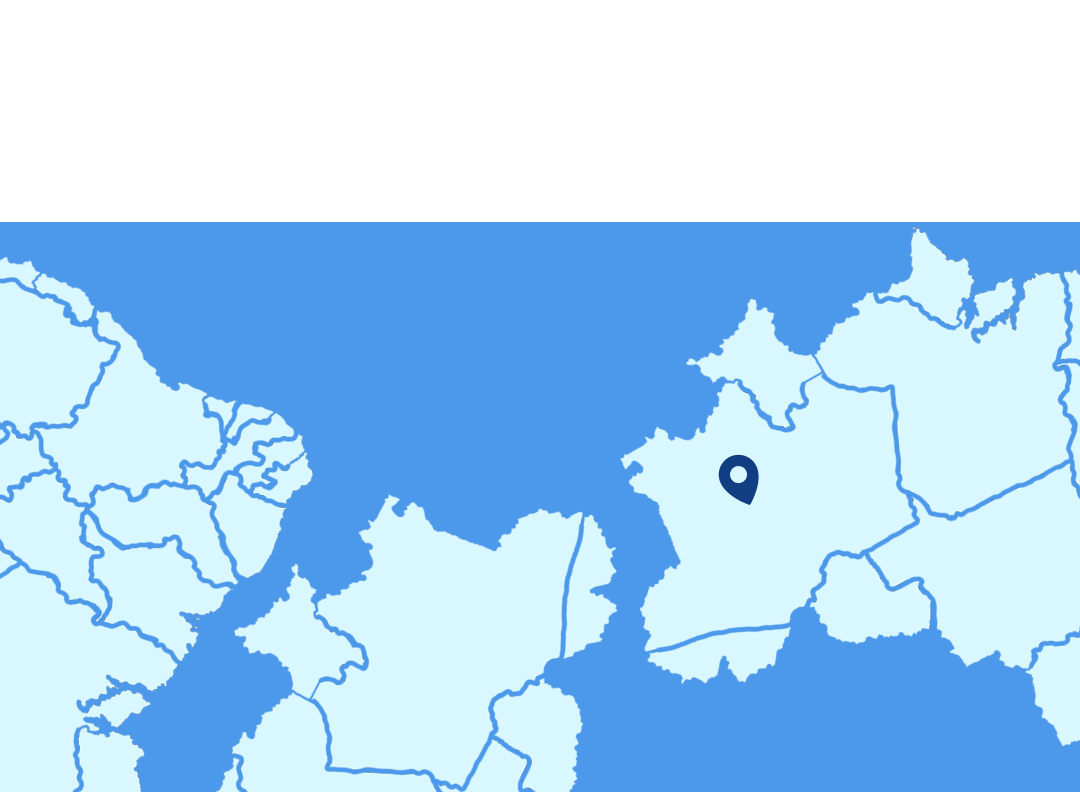
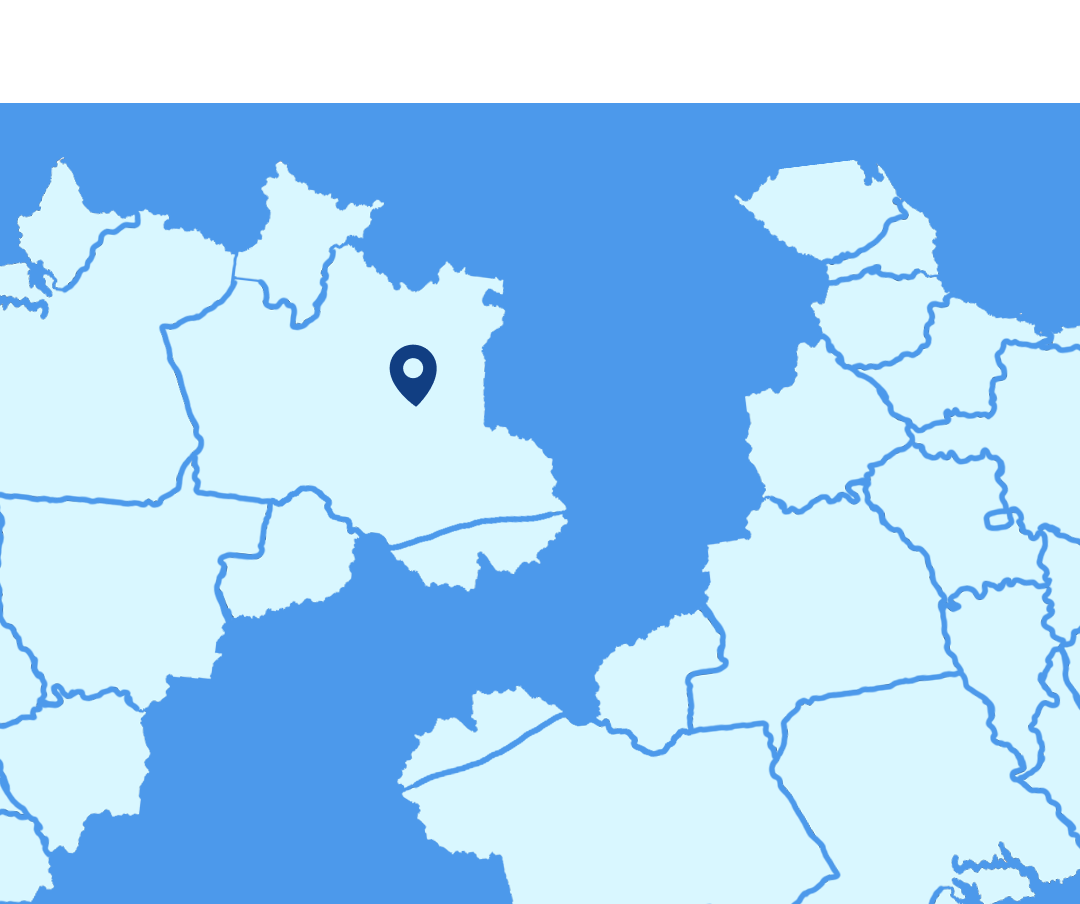
:recycle: refactor: Refatorando a estrutura da tela Login

diff --git a/ServSegFacilities/src/app/login/index.tsx b/ServSegFacilities/src/app/login/index.tsx
@@ -8,9 +8,14 @@ import { useAuth } from "../../contexts/AuthContext";
 import { useRouter } from "expo-router";
 import { useAuthLocal } from "../../hooks/useAuthLocal";
 
-const BACKGROUND_IMAGES = [
+// 1. Imagem fixa de fundo
+const BASE_BACKGROUND = require('../../../assets/imgs/FundoMapas.png');
+
+// 2. Apenas os mapas que vão alternar no carrossel
+const MAP_IMAGES = [
     require('../../../assets/imgs/Mapa1.png'),
     require('../../../assets/imgs/Mapa2.png'),
+    require('../../../assets/imgs/Mapa3.png'),
 ];
 
 export default function Login() {
@@ -46,10 +51,8 @@ export default function Login() {
         }
 
         try {
-            //? 1. Tenta realizar o login no contexto (Mock ou API)
             await login({ email: emailDigitado, senha: senhaDigitada });
 
-            //? 2. Proteção para o fluxo de biometria
             let devePerguntarBiometria = false;
             try {
                 if (verificarPrimeiroLogin) {
@@ -76,7 +79,7 @@ export default function Login() {
                             text: "Sim",
                             onPress: async () => {
                                 if (salvarDados) await salvarDados(emailDigitado, senhaDigitada);
-                                setBioAtiva(true); //* ⬅ Atualiza o estado caso o usuário permita.
+                                setBioAtiva(true);
                                 router.replace("/listaRegistro");
                             }
                         }
@@ -102,6 +105,7 @@ export default function Login() {
         }
     }
 
+    // Loop do carrossel alterado para usar MAP_IMAGES
     useEffect(() => {
         const interval = setInterval(() => {
             Animated.timing(fadeAnim, {
@@ -109,7 +113,7 @@ export default function Login() {
                 duration: 250,
                 useNativeDriver: true,
             }).start(() => {
-                setCurrentImageIndex((prevIndex) => (prevIndex + 1) % BACKGROUND_IMAGES.length);
+                setCurrentImageIndex((prevIndex) => (prevIndex + 1) % MAP_IMAGES.length);
                 Animated.timing(fadeAnim, {
                     toValue: 1,
                     duration: 500,
@@ -122,15 +126,25 @@ export default function Login() {
 
     return (
         <View style={{ flex: 1, position: 'relative' }}>
+            {/* Imagem de Fundo Estática (Sempre Visível no Rodapé) */}
             <Animated.Image
-                source={BACKGROUND_IMAGES[currentImageIndex]}
-                style={{ width: '100%', height: 400, position: 'absolute', opacity: fadeAnim }}
+                source={BASE_BACKGROUND}
+                style={localStyles.backgroundImage}
                 resizeMode="cover"
             />
+
+            {/* Imagem do Carrossel Alternante (Sobrepõe o Fundo com Fade) */}
+            <Animated.Image
+                source={MAP_IMAGES[currentImageIndex]}
+                style={[localStyles.backgroundImage, { opacity: fadeAnim }]}
+                resizeMode="cover"
+            />
+
             <View style={localStyles.logo}>
                 <Logo width={150} style={{ marginBottom: -100 }} />
                 <Text style={H1}>ServSeg Facilities</Text>
             </View>
+
             <View style={localStyles.espacamento}>
                 <Text style={[H2, localStyles.h2]}>E-Mail</Text>
                 <TextInput
@@ -139,6 +153,7 @@ export default function Login() {
                     value={email}
                     onChangeText={setEmail}
                     autoCapitalize="none"
+                    keyboardType="email-address"
                 />
                 <Text style={[H2, localStyles.h2]}>Senha</Text>
                 <TextInput
@@ -150,12 +165,14 @@ export default function Login() {
                 />
                 <Pressable
                     style={({ pressed }) => [buttonStyles.button, pressed && buttonStyles.buttonPressed]}
-                    onPress={acessar}><Text style={buttonStyles.ButtonText}>Entrar</Text>
+                    onPress={acessar}>
+                    <Text style={buttonStyles.ButtonText}>Entrar</Text>
                 </Pressable>
+                
                 <Pressable
                     style={({ pressed }) => [buttonStyles.button, pressed && buttonStyles.buttonPressed]}
-                    onPress={async () => {await resetarDados(); setBioAtiva(false); Alert.alert("Dados Resetados!", "Dados biométricos apagados.");}}>
-                        <Text style={buttonStyles.ButtonText}>[DEV] Resetar Biometria</Text>
+                    onPress={async () => { await resetarDados(); setBioAtiva(false); Alert.alert("Dados Resetados!", "Dados biométricos apagados."); }}>
+                    <Text style={buttonStyles.ButtonText}>[DEV] Resetar Biometria</Text>
                 </Pressable>
 
                 {BioAtiva && (
@@ -169,16 +186,22 @@ export default function Login() {
 }
 
 const localStyles = StyleSheet.create({
+    backgroundImage: {
+        width: '100%',
+        height: 350,
+        position: 'absolute',
+        bottom: 0, // Posiciona a imagem colada no rodapé da tela
+    },
     logo: {
         justifyContent: 'center',
         alignItems: 'center',
-        marginTop: 125,
+        marginTop: -25,
     },
     espacamento: {
         paddingHorizontal: 30,
     },
     input: {
-        padding: 10,
+        padding: 15,
         fontFamily: Font.regular,
         backgroundColor: Colors.AzulFundo,
         borderWidth: 2,
@@ -187,6 +210,6 @@ const localStyles = StyleSheet.create({
         marginTop: 5,
     },
     h2: {
-        marginTop: 15,
+        marginTop: 10,
     },
 });
